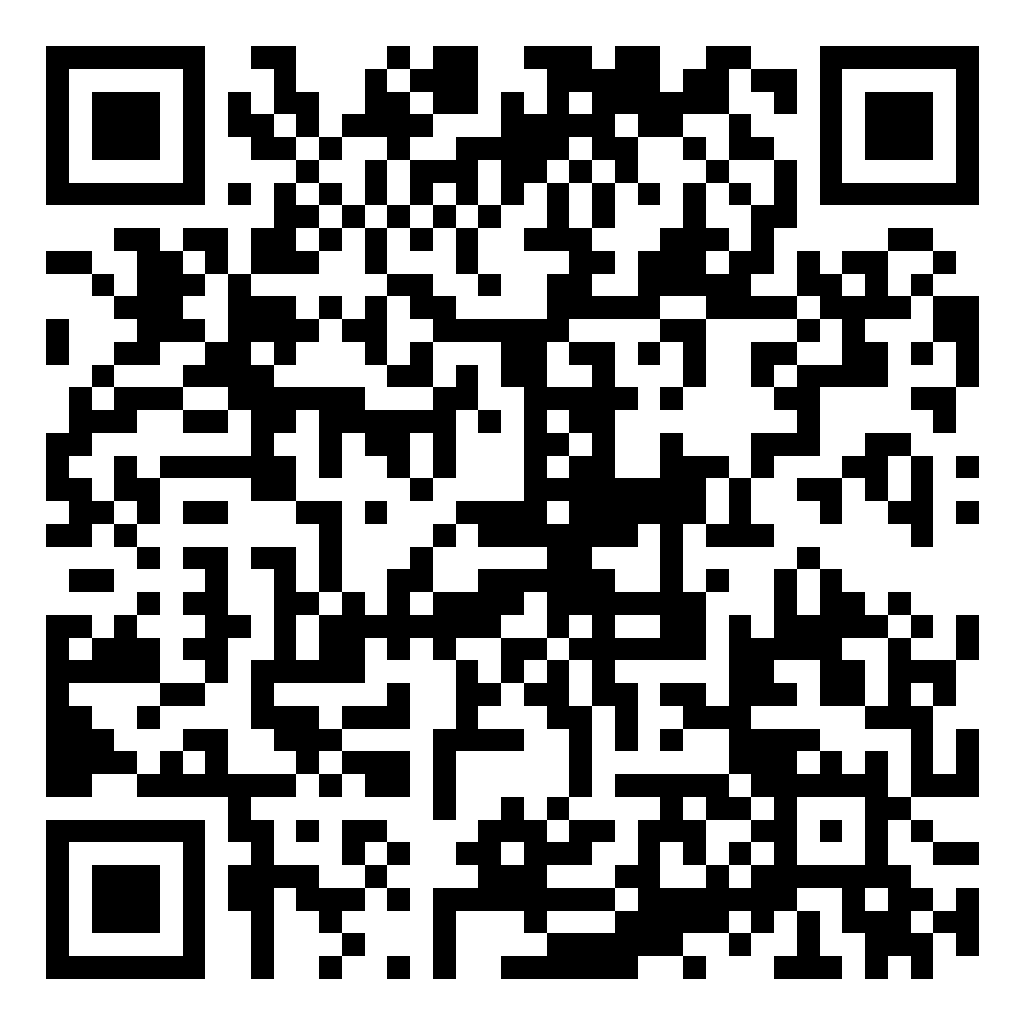
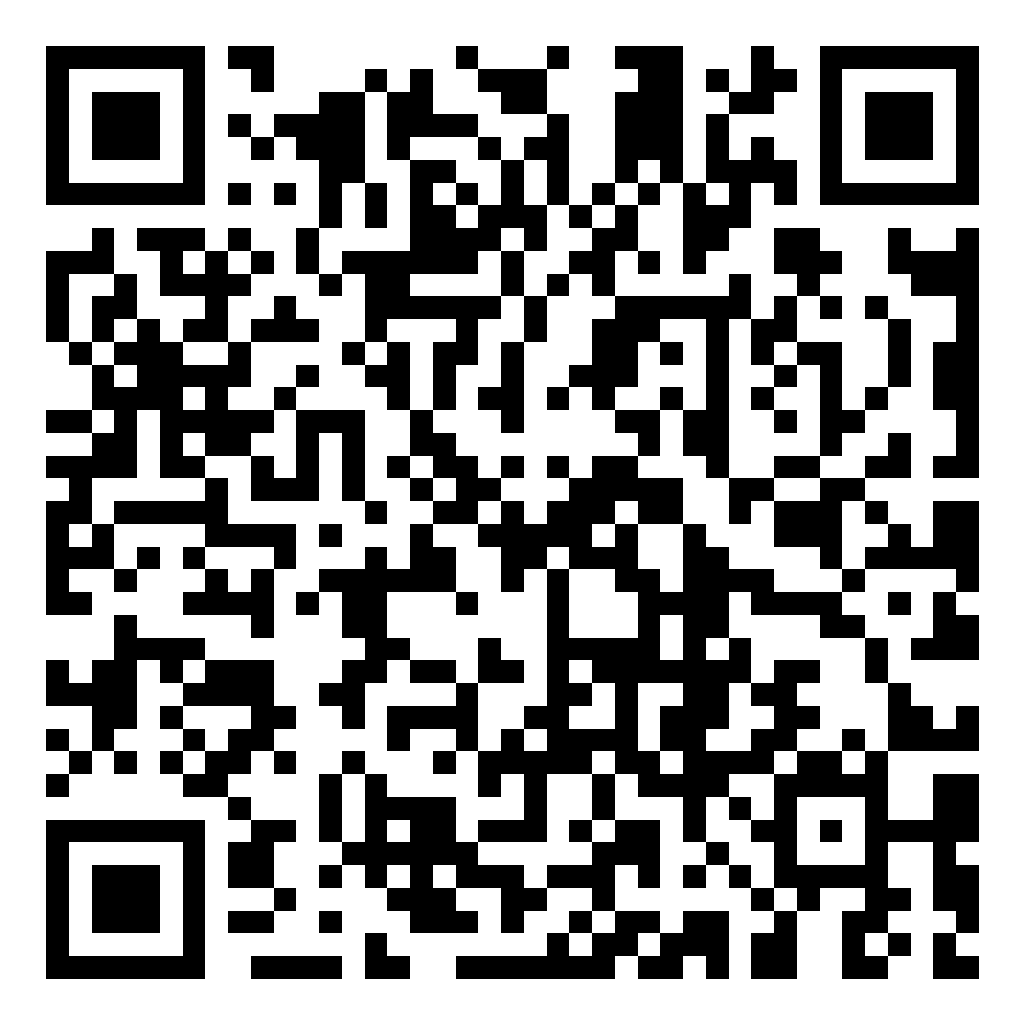
chore: update official domain to montedesionoficial.vercel.app and regenerate QRs

diff --git a/src/pages/admin/AdminCredentials.tsx b/src/pages/admin/AdminCredentials.tsx
@@ -26,6 +26,11 @@ export const AdminCredentials: React.FC<AdminCredentialsProps> = ({
   const [editingCredential, setEditingCredential] = useState<Credential | null>(null);
   const [selectedForCard, setSelectedForCard] = useState<Credential | null>(null);
   const [uploadingPhoto, setUploadingPhoto] = useState<boolean>(false);
+  const [qrDomain, setQrDomain] = useState<string>(() =>
+    window.location.hostname === 'localhost' || window.location.hostname === '127.0.0.1'
+      ? 'https://montedesionoficial.vercel.app'
+      : window.location.origin
+  );
 
   // Form State
   const [formData, setFormData] = useState({
@@ -233,11 +238,12 @@ export const AdminCredentials: React.FC<AdminCredentialsProps> = ({
   };
 
   const copyVerificationLink = (code: string) => {
-    const origin = window.location.origin;
-    const url = `${origin}/verificar/${code}`;
+    const cleanDomain = qrDomain.replace(/\/+$/, '');
+    const url = `${cleanDomain}/verificar/${code}`;
     navigator.clipboard.writeText(url);
     triggerToast('Enlace de verificación copiado al portapapeles');
   };
+
 
   // Filtered list
   const filteredCredentials = credentials.filter((cred) => {
@@ -744,7 +750,7 @@ export const AdminCredentials: React.FC<AdminCredentialsProps> = ({
                 <div className="bg-white p-2 rounded-xl shadow-md shrink-0 flex flex-col items-center">
                   <QRCodeCanvas
                     id={`qr-card-${selectedForCard.code}`}
-                    value={`${window.location.origin}/verificar/${selectedForCard.code}`}
+                    value={`${qrDomain.replace(/\/+$/, '')}/verificar/${selectedForCard.code}`}
                     size={72}
                     level="H"
                     includeMargin={false}
@@ -770,7 +776,7 @@ export const AdminCredentials: React.FC<AdminCredentialsProps> = ({
                     URL de Verificación Pública
                   </span>
                   <span className="text-xs font-mono font-bold text-slate-700 dark:text-zinc-300 truncate block">
-                    {`${window.location.origin}/verificar/${selectedForCard.code}`}
+                    {`${qrDomain.replace(/\/+$/, '')}/verificar/${selectedForCard.code}`}
                   </span>
                 </div>
                 <button
@@ -795,7 +801,7 @@ export const AdminCredentials: React.FC<AdminCredentialsProps> = ({
                 </button>
 
                 <a
-                  href={`/verificar/${selectedForCard.code}`}
+                  href={`${qrDomain.replace(/\/+$/, '')}/verificar/${selectedForCard.code}`}
                   target="_blank"
                   rel="noreferrer"
                   className="py-3 px-4 rounded-xl bg-brand-primary text-white font-bold text-xs uppercase tracking-wider flex items-center justify-center gap-2 hover:opacity-90 transition-all text-center"
@@ -807,6 +813,7 @@ export const AdminCredentials: React.FC<AdminCredentialsProps> = ({
                 </a>
               </div>
             </div>
+
           </div>
         </div>
       )}

diff --git a/scripts/generate-pastor-qrs.js b/scripts/generate-pastor-qrs.js
@@ -38,9 +38,10 @@ const pastors = [
   },
 ];
 
-// Base URL configurable vía argumento o default
-// Ej: node scripts/generate-pastor-qrs.js https://mi-iglesia.com
-const baseUrl = process.argv[2] || 'https://monte-de-sion-app.vercel.app';
+// Base URL oficial de producción
+// Ej: node scripts/generate-pastor-qrs.js https://montedesionoficial.vercel.app
+const baseUrl = process.argv[2] || 'https://montedesionoficial.vercel.app';
+
 
 const publicDir = path.resolve(__dirname, '../public/qr-credentials');
 const assetsDir = path.resolve(__dirname, '../assets/qr-credentials');
